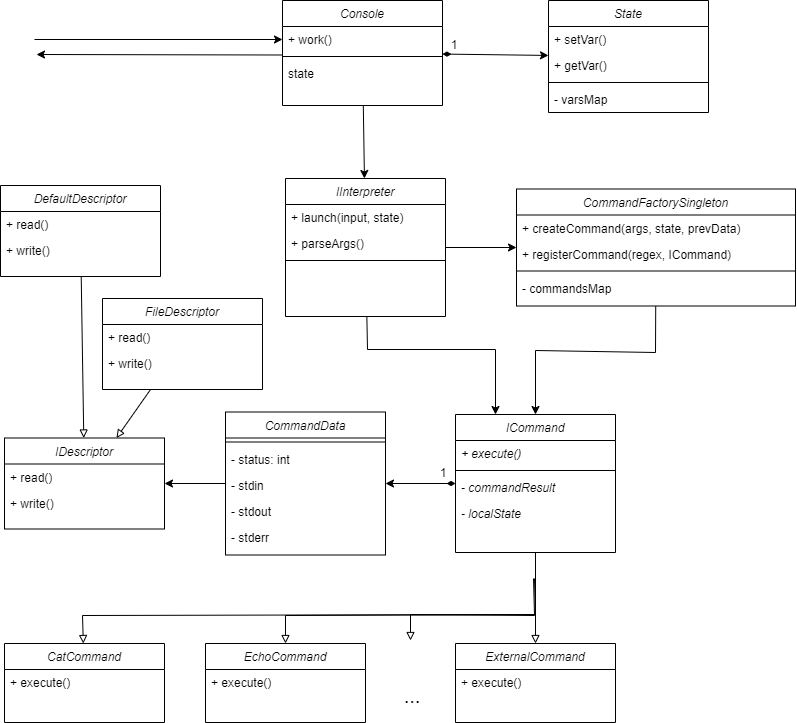
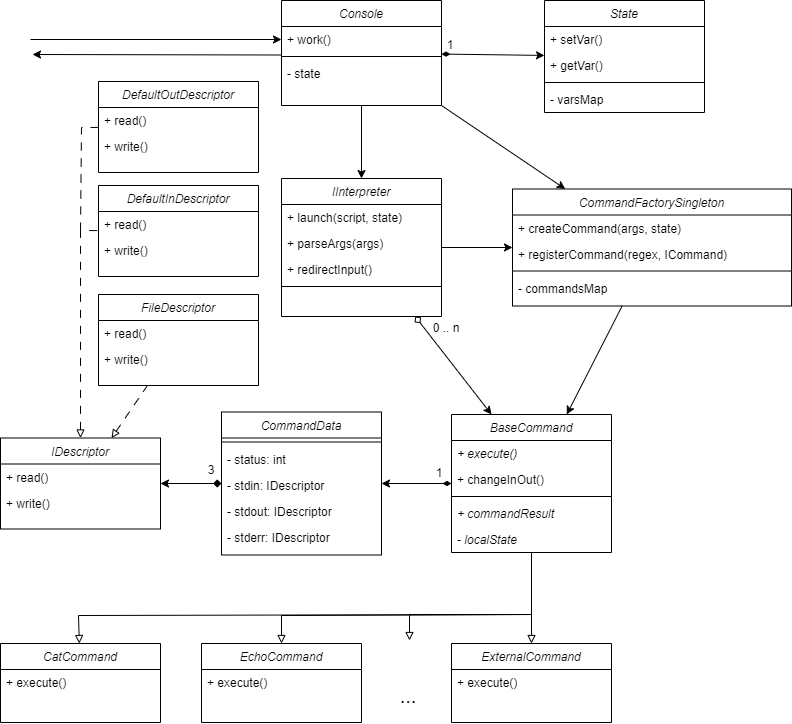
[FR-#1.1] Add minor changes in UML diagramm
Default descriptors (such as In and Out) were added
to UML structure. Specified few functions of Interpreter.
Added default method in BaseCommand for InOut redirecting.

diff --git a/README.md b/README.md
@@ -10,25 +10,24 @@
   * Использует интерпретатор для выполнения пользовательского скрипта
   * Результат выполнения очередного скрипта -- CommandData
 
-* State -- состояние. Пользовательские переменные. Общие данные для всех интерпретаторов. Возможно стоит сделать как взаимодействие с файлом (чтобы разделяться между многими консолями). Аналог Path
+* State -- состояние. Пользовательские переменные. Общие данные для всех интерпретаторов. Возможно стоит сделать как взаимодействие с файлом (чтобы разделяться между многими консолями, Аналог Path)
 
 * Interpreter -- интерпретатор.
   * Определяет команды и вычислят аргументы для них (full and weak quoting, подставляет переменные)
   * Создает команды, используя фабрику
-  * Настраивает потоки ввода-вывода для команды или конвейера
-  * Исполняет команды передает им состояния
+  * Настраивает потоки ввода-вывода для команды или конвейера команд
+  * Исполняет команды, передает им состояния
   
 * CommandFactory -- объект-фабрика
   * Ответственна за вызов необходимых конструкторов при инициализации команд
-  * Настраивает перенаправление ввода-вывода
   * Поиск и регистрация команд по (@обдумывается@ регулярным выражениям).
   * Порядок регистрации совпадает с порядком проверок
   * Создается и заполняется доступными командами при создании объекта-консоли
 
-* ICommand -- базовая команда (абстрактный класс)
+* BaseCommand -- базовая команда (абстрактный класс)
   * От неё наследуются конкретные команды
-  * У всех наследников есть конструктор с одинаковыми аргументами
-  * Общие поля для всех команд
+  * У всех наследников есть конструктор с одинаковыми аргументами (массив строк)
+  * Общие поля для всех команд (дескрипторы, )
   * Хранит ссылку на некоторое состояние системы (может быть локальное)
 
 * AnyCommand
@@ -39,7 +38,7 @@
   * Хранит информацию о потоках ввода-вывода
   * Хранит статус выполнения команды (Exit, ErrorCode, Ok, etc...)
 
-* Descriptor -- поток ввода-вывода. Интерфейс
+* IDescriptor -- поток ввода-вывода. Интерфейс
   * Может быть стандратным потоком
   * Может быть перенаправлен в файл
 
